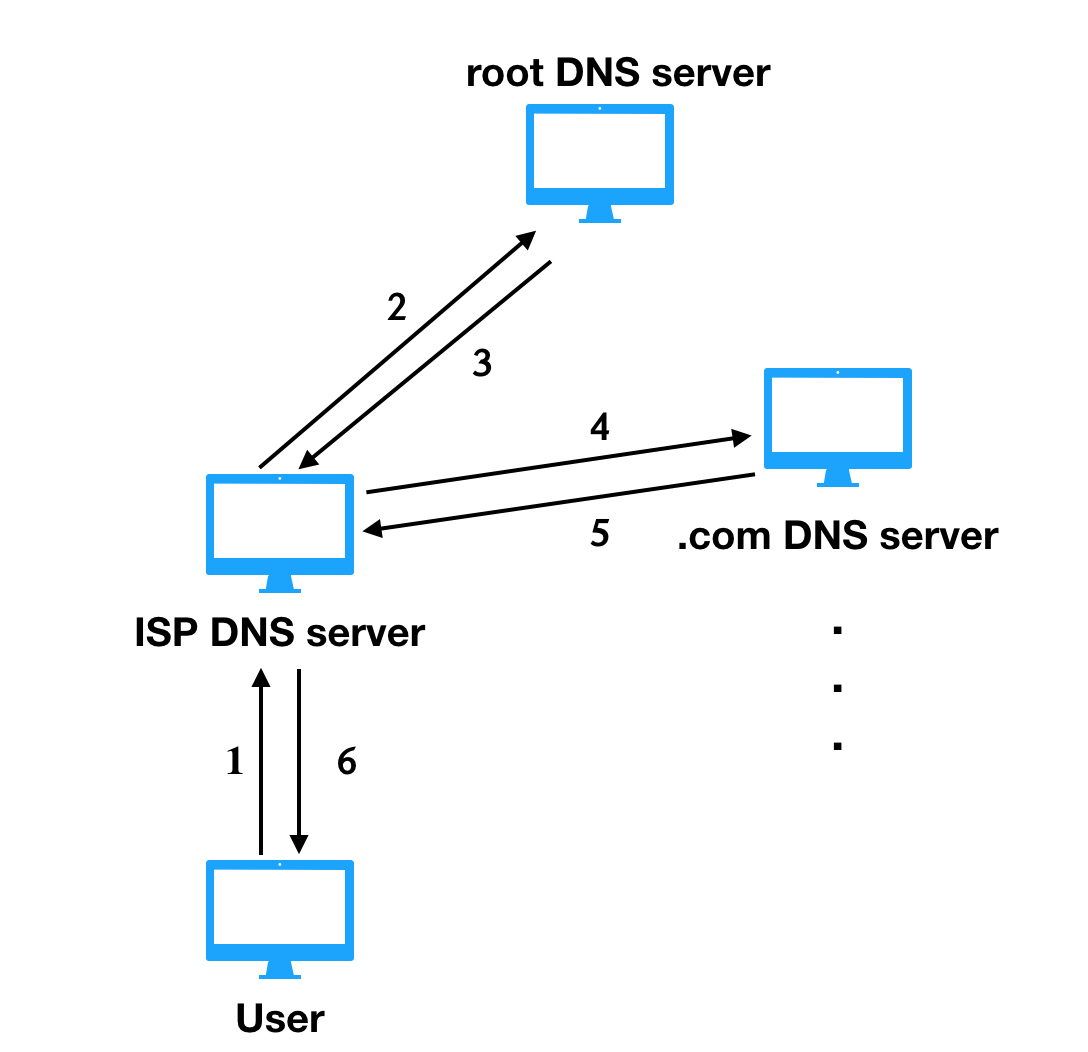
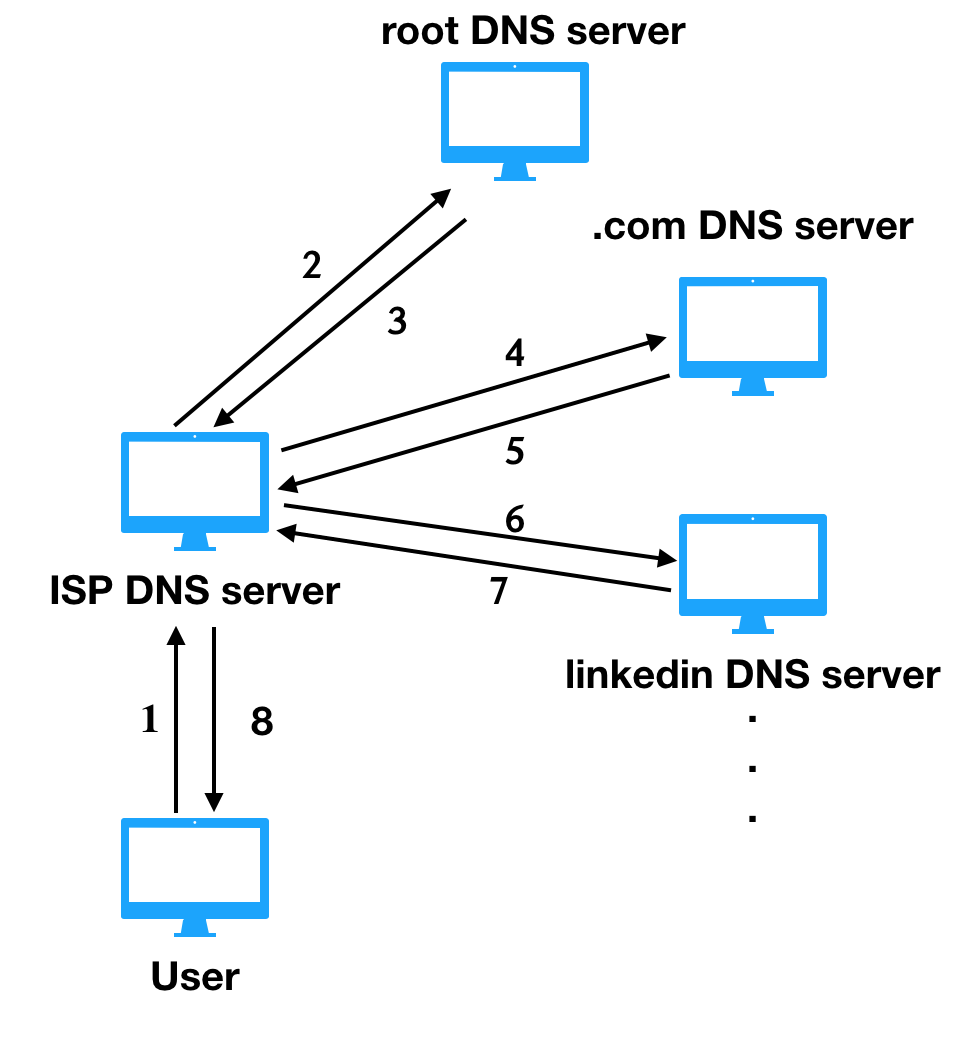
Mistake fixed
DNS domain space incorrect understanding... Before...

Changed region(s): [[0.0307, 0.0, 0.9509, 1.0], [0.3067, 0.6996, 0.3374, 0.73]]

diff --git a/articles/article9.html b/articles/article9.html
@@ -116,14 +116,16 @@
                         <p style="padding-top:10pt;font-style:italic;text-decoration:underline;color:#a0a0a0">&nbsp;&nbsp;Figure.2: Domain Hierarchy&nbsp;&nbsp;</p>
                     </div>
                     <p class = "context">
-                      Unfortunately, your browser cannot find the IP address from any cache, so, it decides to send the DNS query to DNS servers. DNS domain name hierarchy is a tree which is demonstrated in the figure.2. This tree structure increase DNS lookup efficiency and it works following this step (Figure.3)
+                      Unfortunately, your browser cannot find the IP address from any cache, so, it decides to send the DNS query to DNS servers. DNS domain name space is a tree structure which illustrates in the figure.2. This tree structure increase DNS lookup efficiency and it works following this step (Figure.3)
                     </p>
                     <ul class = "context">
                       <li>Your computer asks IP address of LinkedIn server(s).</li>
                       <li>ISP doesn’t have the IP address of LinkedIN Server(s) either, so it sends request to root DNS server.</li>
-                      <li>ISP doesn’t have the IP address of LinkedIN Server(s) either, so it sends request to root DNS server.</li>
+                      <li>Root DNS Server cannot resolve the name. But it can help peer find the IP address of Top level DNS server, namely .com Server in the scenario.</li>
                       <li>ISP sends request to .com DNS server.</li>
-                      <li>.com DNS server checks its database and it find the IP address of LinkedIn (maybe a couple of addresses), and sends it back to ISP server.</li>
+                      <li>.com Top level server has the IP address of all authenticated name servers whose suffixes is .com and IP address of each authentative name server for the second level domain.</li>
+                      <li>ISP get the address of the LinkedIn organization's DNS server, and send the request to it</li>
+                      <li>linkedIn server receive the request from ISP and return the IP address stored in its database.</li>
                       <li>ISP server send the IP address of <a href="">www.LinkedIn.com</a> back to you and it caches it in its local DNS database, as well.</li>
                     </ul>
                     <div class="article-image">
